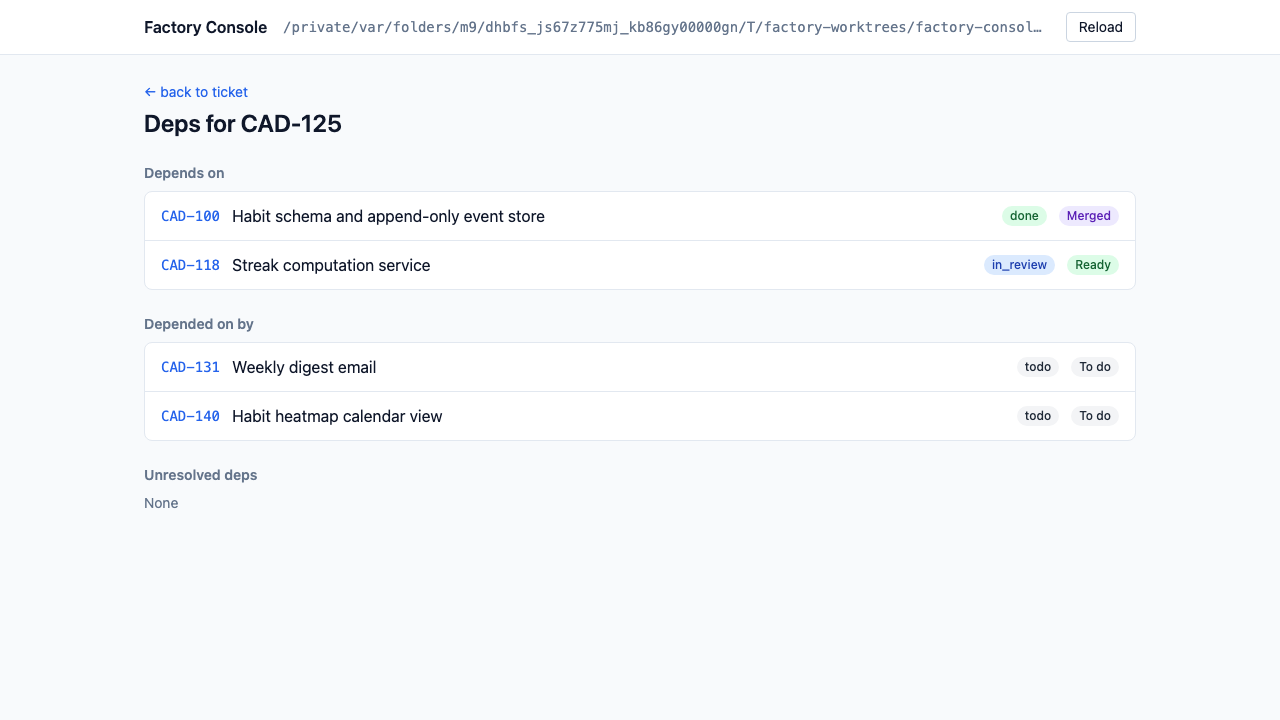
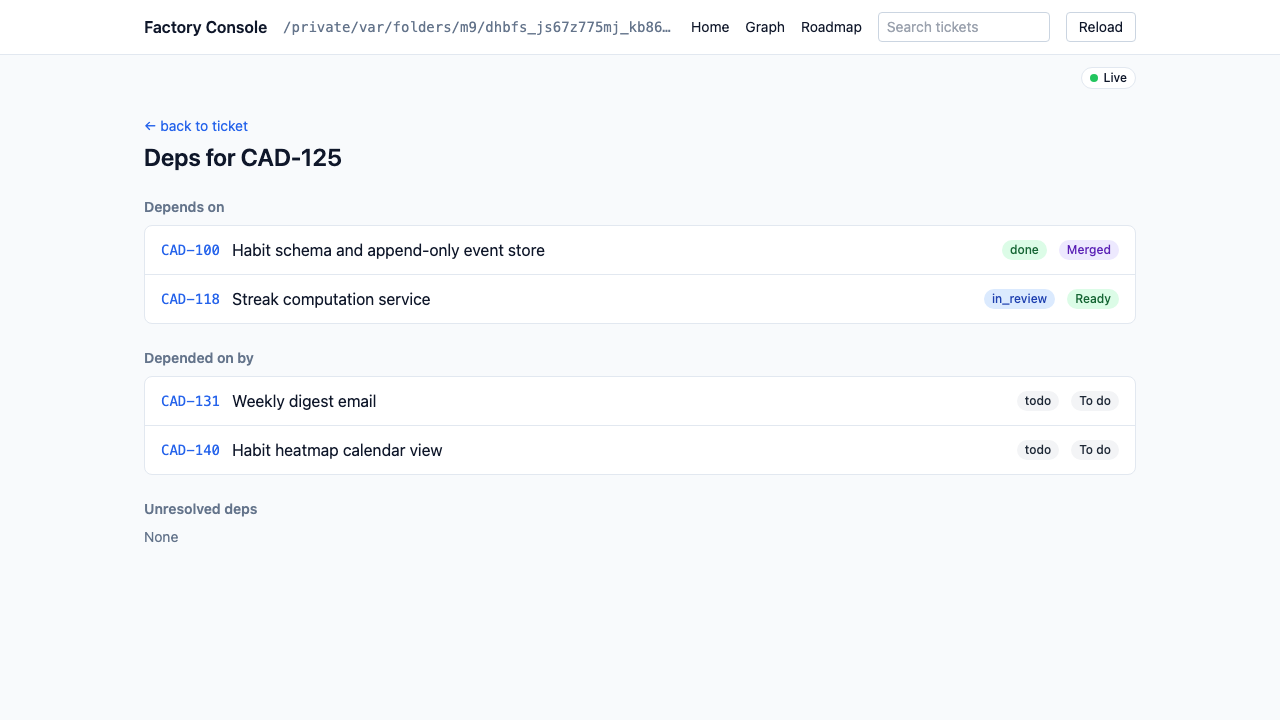
capture graph/roadmap/search/live screenshots in the e2e pipeline + document the v1 nav, search, graph, roadmap and live-update views in usage/README
The layout's persistent /api/v1/events SSE stream means the network never goes idle, so the screenshots spec gates captures on web-first visibility (and the graph __cy edge poll) instead of waitForLoadState('networkidle').

diff --git a/frontend/tests/e2e/screenshots.spec.ts b/frontend/tests/e2e/screenshots.spec.ts
@@ -2,16 +2,22 @@ import path from 'node:path';
 import { fileURLToPath } from 'node:url';
 import { test, expect } from '@playwright/test';
 
-// Captures the three README screenshots (list / detail / deps) from the REAL UI
-// served by the harness — a real factory-console booted in global-setup on the
-// `with_run_state` fixture (use.baseURL points at it). Kept separate from the
-// happy-path spec so a broken screenshot pipeline never masks an e2e regression.
+// Captures the README screenshots from the REAL UI served by the harness — a
+// real factory-console booted in global-setup on the `with_run_state` fixture
+// (use.baseURL points at it). The MVP views (list / detail / deps) plus the v1
+// views (graph / roadmap / search) and the live-update indicator. Kept separate
+// from the happy-path spec so a broken screenshot pipeline never masks an e2e
+// regression.
 //
 // Like happy-path, the SPA is client-side routed with ssr=false, so every
-// navigation is by CLICK starting from `/` — deep-link reloads of /tickets/...
-// aren't served by the static mount. Locators are role/label/text based and
-// each screenshot is taken only AFTER the web-first visibility assertion for its
-// page has passed (plus a networkidle wait), so no capture is blank or partial.
+// navigation is by CLICK/`goto` starting from `/` — deep-link reloads of
+// /tickets/... aren't served by the static mount. Locators are role/label/text
+// based and each screenshot is taken only AFTER the web-first visibility
+// assertion for its page has passed, so no capture is blank or partial. We do
+// NOT wait for `networkidle`: the layout opens a long-lived `/api/v1/events` SSE
+// stream (the live-update feature) that never lets the network go idle — the
+// per-page visibility assertions (and, for /graph, the `window.__cy` edge poll)
+// are the deterministic capture gate instead, matching graph.spec/search.spec.
 //
 // These are plain `page.screenshot({ path })` captures, NOT Playwright visual
 // comparisons (toMatchSnapshot) — the PNGs are docs artifacts, not a baseline.
@@ -29,7 +35,6 @@ test('screenshots: capture list, detail, and deps neighborhood PNGs', async ({ p
 		await page.goto('/');
 		await expect(page.getByRole('heading', { name: 'Tickets', level: 1 })).toBeVisible();
 		await expect(page.getByRole('link', { name: 'CAD-125' })).toBeVisible();
-		await page.waitForLoadState('networkidle');
 		await page.screenshot({ path: shot('list.png') });
 	});
 
@@ -40,7 +45,6 @@ test('screenshots: capture list, detail, and deps neighborhood PNGs', async ({ p
 		await expect(
 			page.getByRole('heading', { name: 'Daily check-in REST endpoints', level: 1 }).first()
 		).toBeVisible();
-		await page.waitForLoadState('networkidle');
 		await page.screenshot({ path: shot('detail.png') });
 	});
 
@@ -49,7 +53,83 @@ test('screenshots: capture list, detail, and deps neighborhood PNGs', async ({ p
 		await expect(page).toHaveURL(/\/tickets\/CAD-125\/deps$/);
 		await expect(page.getByRole('heading', { name: 'Deps for CAD-125', level: 1 })).toBeVisible();
 		await expect(page.getByRole('link', { name: 'CAD-100' })).toBeVisible();
-		await page.waitForLoadState('networkidle');
 		await page.screenshot({ path: shot('deps.png') });
+	});
+});
+
+// CAD-125 depends on CAD-118 → DepGraph builds a cytoscape edge `${source}->${target}`.
+// Gating on this edge (via the documented `window.__cy` core, set only after the
+// async cytoscape import in onMount) proves the opaque canvas has actually painted
+// before we capture — the same render gate graph.spec.ts uses (bounded poll, not a
+// sleep).
+const DEP_EDGE_ID = 'CAD-125->CAD-118';
+
+test('screenshots: capture the graph, roadmap, search, and live-update PNGs', async ({ page }) => {
+	await test.step('capture the /graph dependency graph', async () => {
+		await page.goto('/graph');
+		await expect(page.getByRole('heading', { name: 'Dependency graph', level: 1 })).toBeVisible();
+		// The accessible node nav lists one <a> per fixture node — gate on all 6 so the
+		// graph model is fully built before the capture.
+		const nodeNav = page.getByRole('navigation', { name: 'Ticket dependency nodes' });
+		await expect(nodeNav.getByRole('link')).toHaveCount(6);
+		// Then gate on the canvas actually painting: poll (bounded, not a sleep) until
+		// the CAD-125 → CAD-118 edge resolves in the cytoscape core.
+		await expect
+			.poll(
+				() =>
+					page.evaluate((edgeId) => {
+						const core = (
+							window as unknown as { __cy?: { getElementById(id: string): { length: number } } }
+						).__cy;
+						return core?.getElementById(edgeId).length === 1;
+					}, DEP_EDGE_ID),
+				{ timeout: 10_000 }
+			)
+			.toBe(true);
+		await page.screenshot({ path: shot('graph.png') });
+	});
+
+	await test.step('capture the /roadmap milestone view', async () => {
+		await page.goto('/roadmap');
+		// `exact` so the page h1 "Roadmap" doesn't also match the rendered ROADMAP.md
+		// body title "Cadence Roadmap" (a second, markdown-emitted <h1>).
+		await expect(
+			page.getByRole('heading', { name: 'Roadmap', level: 1, exact: true })
+		).toBeVisible();
+		// Concrete rendered content — a milestone section's ticket mini-row link — so the
+		// shot isn't taken on an empty roadmap shell.
+		await expect(page.getByRole('link', { name: 'CAD-100' })).toBeVisible();
+		await page.screenshot({ path: shot('roadmap.png') });
+	});
+
+	await test.step('capture the /search results', async () => {
+		// Navigate the way a user does: the global search box in the header banner
+		// (scoped to the banner to disambiguate the index route's FiltersBar box of the
+		// same name). "idempotent" is a body-only term hitting exactly CAD-125 + CAD-118.
+		await page.goto('/');
+		const globalSearch = page
+			.getByRole('banner')
+			.getByRole('searchbox', { name: 'Search tickets' });
+		await globalSearch.fill('idempotent');
+		await globalSearch.press('Enter');
+		// Gate on the /search results page ITSELF — its own <h1> and exactly the two
+		// body-match results. The list page at `/` also links CAD-125/CAD-118, so those
+		// links alone wouldn't prove the SPA navigation to /search actually landed.
+		await expect(page).toHaveURL(/\/search\?q=idempotent$/);
+		await expect(page.getByRole('heading', { name: 'Search', level: 1 })).toBeVisible();
+		await expect(page.getByRole('link', { name: /^CAD-\d+$/ })).toHaveCount(2);
+		await page.screenshot({ path: shot('search.png') });
+	});
+
+	await test.step('capture the live-update indicator in its connected state', async () => {
+		// The LiveIndicator pill sits in the layout on every route. On the read-only
+		// shared fixture (no watcher mutations) it settles at a steady "Live" once the
+		// SSE stream connects — a web-first wait, no fixture-mutation dance. Capture just
+		// the pill element so the shot documents the indicator itself.
+		await page.goto('/');
+		await expect(page.getByRole('heading', { name: 'Tickets', level: 1 })).toBeVisible();
+		const livePill = page.getByText('Live', { exact: true });
+		await expect(livePill).toBeVisible();
+		await livePill.screenshot({ path: shot('live.png') });
 	});
 });

diff --git a/docs/usage.md b/docs/usage.md
@@ -65,6 +65,51 @@ malformed-manifest) arrive with the full CLI wiring in backend T25.
 
 ## What you'll see
 
+Every page shares a header with a **Factory Console** label, the served project
+path, a navigation cluster (**Home / Graph / Roadmap** links plus a **global
+search box**), and a **Reload** button. A **live-update indicator** pill sits just
+below the header on the right.
+
+### Ticket list, detail, and deps
+
+The landing page (`/`) is a searchable, filterable list of every ticket. Open a
+ticket for its detail view — the rendered `.md` body, resolved
+`depends_on` / `provides`, and a factory run-state badge — and follow "View dep
+neighborhood" for that ticket's direct deps and dependents as clickable links.
+
+### Global search
+
+The search box in the header is a **full-text** search over ticket titles _and_
+bodies. Type a term and press Enter to land on `/search`, which lists the matching
+tickets (each row showing which fields matched, e.g. `bodyMarkdown`); every result
+links through to its ticket detail. An empty or no-match query renders a friendly
+empty state rather than an error.
+
+### Dependency graph
+
+`/graph` (the header **Graph** link) draws the whole project as a
+dependency DAG. Each node is a ticket colored by its factory run-state
+(`todo` / `in-flight` / `ready` / `merged`), and edges point from a ticket to the
+tickets it depends on. Click a node to open that ticket's detail page.
+
+### Roadmap
+
+`/roadmap` (the header **Roadmap** link) renders the project's `ROADMAP.md` as
+milestone sections — each item shows its checkbox state and, when it references a
+ticket, a monospace id link into the ticket detail — followed by the roadmap's
+prose body.
+
+### Live updates
+
+The console watches the project on disk. When a ticket's run-state changes, an
+open page **auto-refreshes** over a Server-Sent-Events stream — no manual reload
+needed. The indicator pill reflects the stream's health: **Connecting…** while it
+opens, **Live** once connected, **Offline** if the stream drops, and it briefly
+flashes **Updated** when a change arrives. Where the browser has no `EventSource`,
+the app degrades gracefully to the manual **Reload** button.
+
+### Screenshots
+
 Captured from the real UI by the Playwright screenshots pipeline against the
 `with_run_state` fixture — see the ["Screenshots"](../README.md#screenshots)
 section of the root README to regenerate them.
@@ -80,3 +125,19 @@ _The `CAD-125` detail view with rendered body, deps, and run-state badge._
 ![Dependency neighborhood](screenshots/deps.png)
 
 _The `CAD-125` dependency neighborhood listing its direct deps._
+
+![Global search results](screenshots/search.png)
+
+_Full-text search for `idempotent` at `/search`, matching two ticket bodies._
+
+![Dependency graph](screenshots/graph.png)
+
+_The `/graph` dependency DAG, nodes colored by factory run-state._
+
+![Roadmap](screenshots/roadmap.png)
+
+_The `/roadmap` milestone view rendered from the project's `ROADMAP.md`._
+
+![Live-update indicator](screenshots/live.png)
+
+_The live-update pill in its connected `Live` state._

diff --git a/README.md b/README.md
@@ -27,6 +27,10 @@ Within a few seconds the console discovers the project, starts a local server on
 - A searchable, filterable list of every ticket (id / status / title / track).
 - A detail view with the rendered ticket `.md`, resolved `depends_on` / `provides`, and a factory run-state badge.
 - A dependency-neighborhood view listing direct deps and dependents as clickable links.
+- A **global full-text search** box (header) over ticket titles and bodies, with results at `/search`.
+- A **dependency graph** (`/graph`) — the whole project as a run-state-colored DAG; click a node to open its ticket.
+- A **roadmap** (`/roadmap`) rendering the project's `ROADMAP.md` as milestone sections.
+- **Live updates**: open pages auto-refresh over SSE when a ticket's run-state changes on disk, with a status indicator pill (and graceful fallback to the Reload button).
 
 Press Ctrl-C to stop. See [`docs/usage.md`](docs/usage.md) for flags, exit codes, and path resolution.
 
@@ -45,6 +49,22 @@ _The `CAD-125` detail view with rendered body, deps, and run-state badge._
 ![Dependency neighborhood](docs/screenshots/deps.png)
 
 _The `CAD-125` dependency neighborhood listing its direct deps._
+
+![Global search results](docs/screenshots/search.png)
+
+_Full-text search for `idempotent` at `/search`, matching two ticket bodies._
+
+![Dependency graph](docs/screenshots/graph.png)
+
+_The `/graph` dependency DAG, nodes colored by factory run-state._
+
+![Roadmap](docs/screenshots/roadmap.png)
+
+_The `/roadmap` milestone view rendered from the project's `ROADMAP.md`._
+
+![Live-update indicator](docs/screenshots/live.png)
+
+_The live-update pill in its connected `Live` state._
 
 Regenerate with `pnpm --dir frontend screenshots` (equivalently `pnpm --dir frontend e2e --grep screenshots && node frontend/scripts/copy-screenshots.mjs`).
 

diff --git a/docs/screenshots/README.md b/docs/screenshots/README.md
@@ -10,6 +10,10 @@ will be overwritten on the next regeneration.
 | `list.png` | The ticket list (`/`). |
 | `detail.png` | The `CAD-125` ticket detail (`/tickets/CAD-125`). |
 | `deps.png` | The `CAD-125` dependency neighborhood (`/tickets/CAD-125/deps`). |
+| `search.png` | Full-text search results for `idempotent` (`/search`). |
+| `graph.png` | The dependency graph (`/graph`). |
+| `roadmap.png` | The roadmap / milestone view (`/roadmap`). |
+| `live.png` | The live-update indicator pill in its connected `Live` state. |
 
 ## Regenerate
 
@@ -20,7 +24,7 @@ pnpm --dir frontend screenshots
 ```
 
 That runs the `frontend/tests/e2e/screenshots.spec.ts` e2e (which boots a real
-`factory-console` on the `with_run_state` fixture and captures the three PNGs
+`factory-console` on the `with_run_state` fixture and captures the PNGs above
 into the gitignored `frontend/tests/e2e/__screenshots__/`), then
 `frontend/scripts/copy-screenshots.mjs` copies them here. Commit the updated PNGs
 so the README images stay in sync with the UI.
